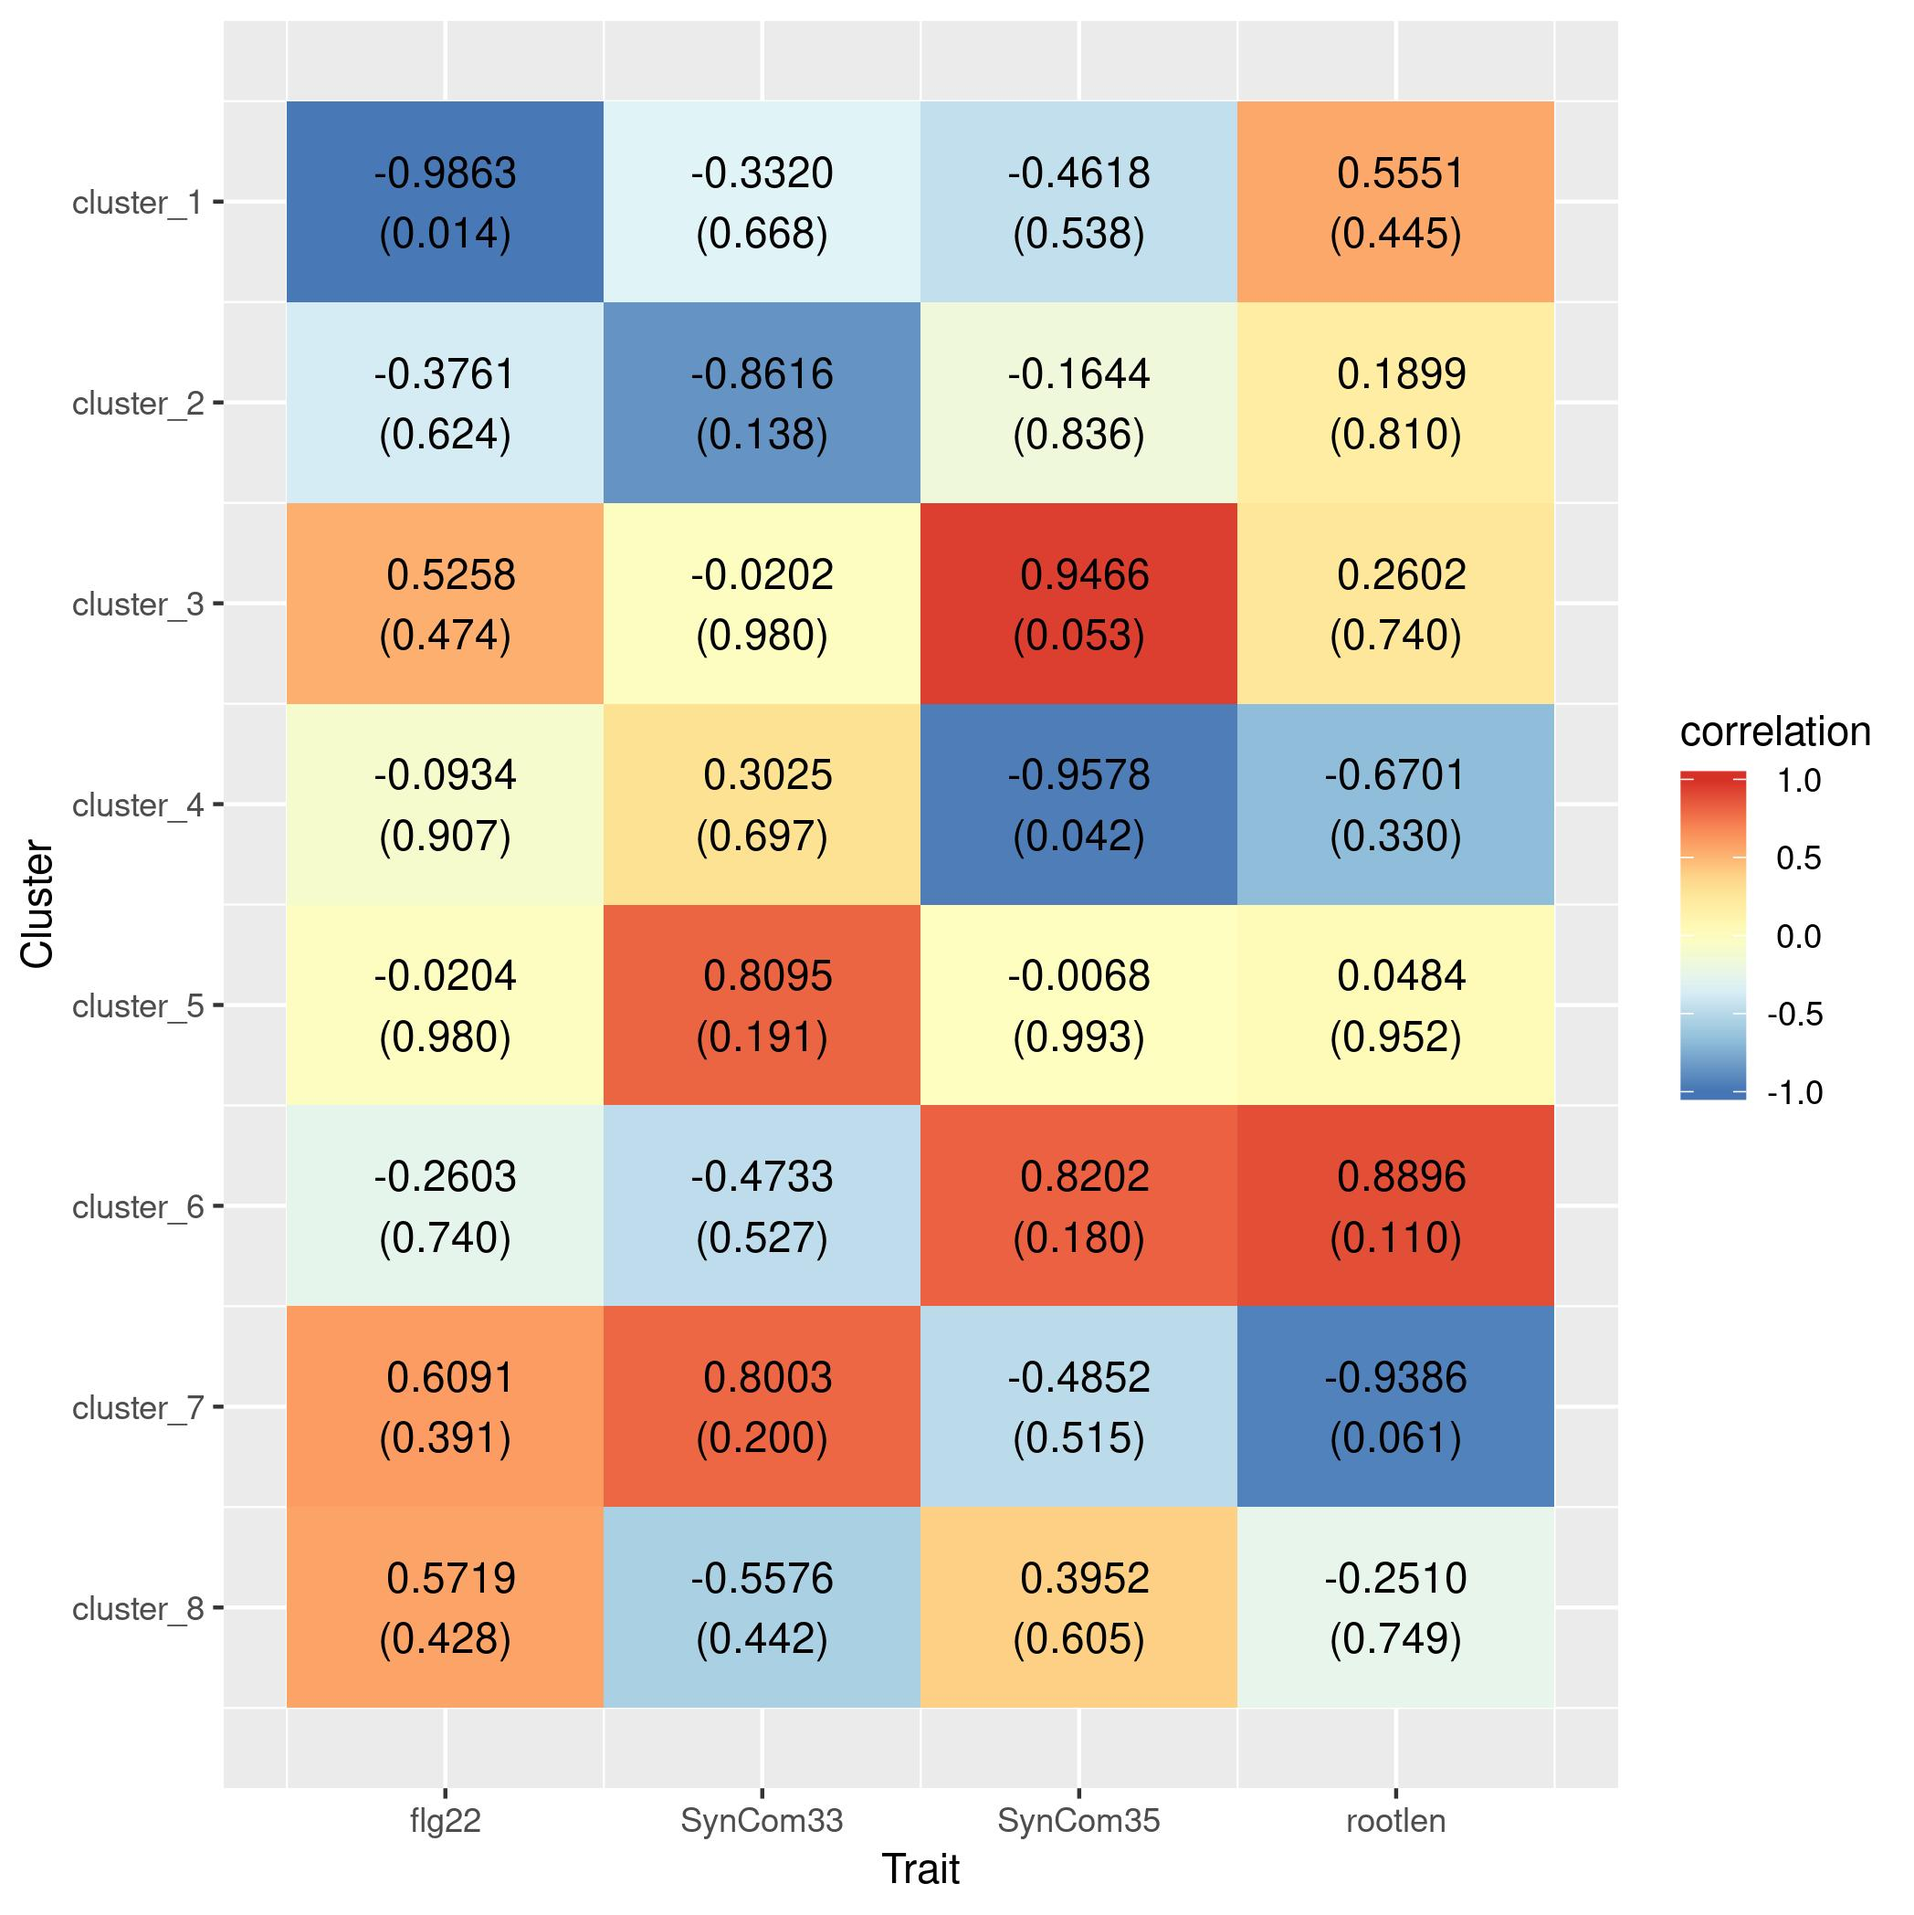
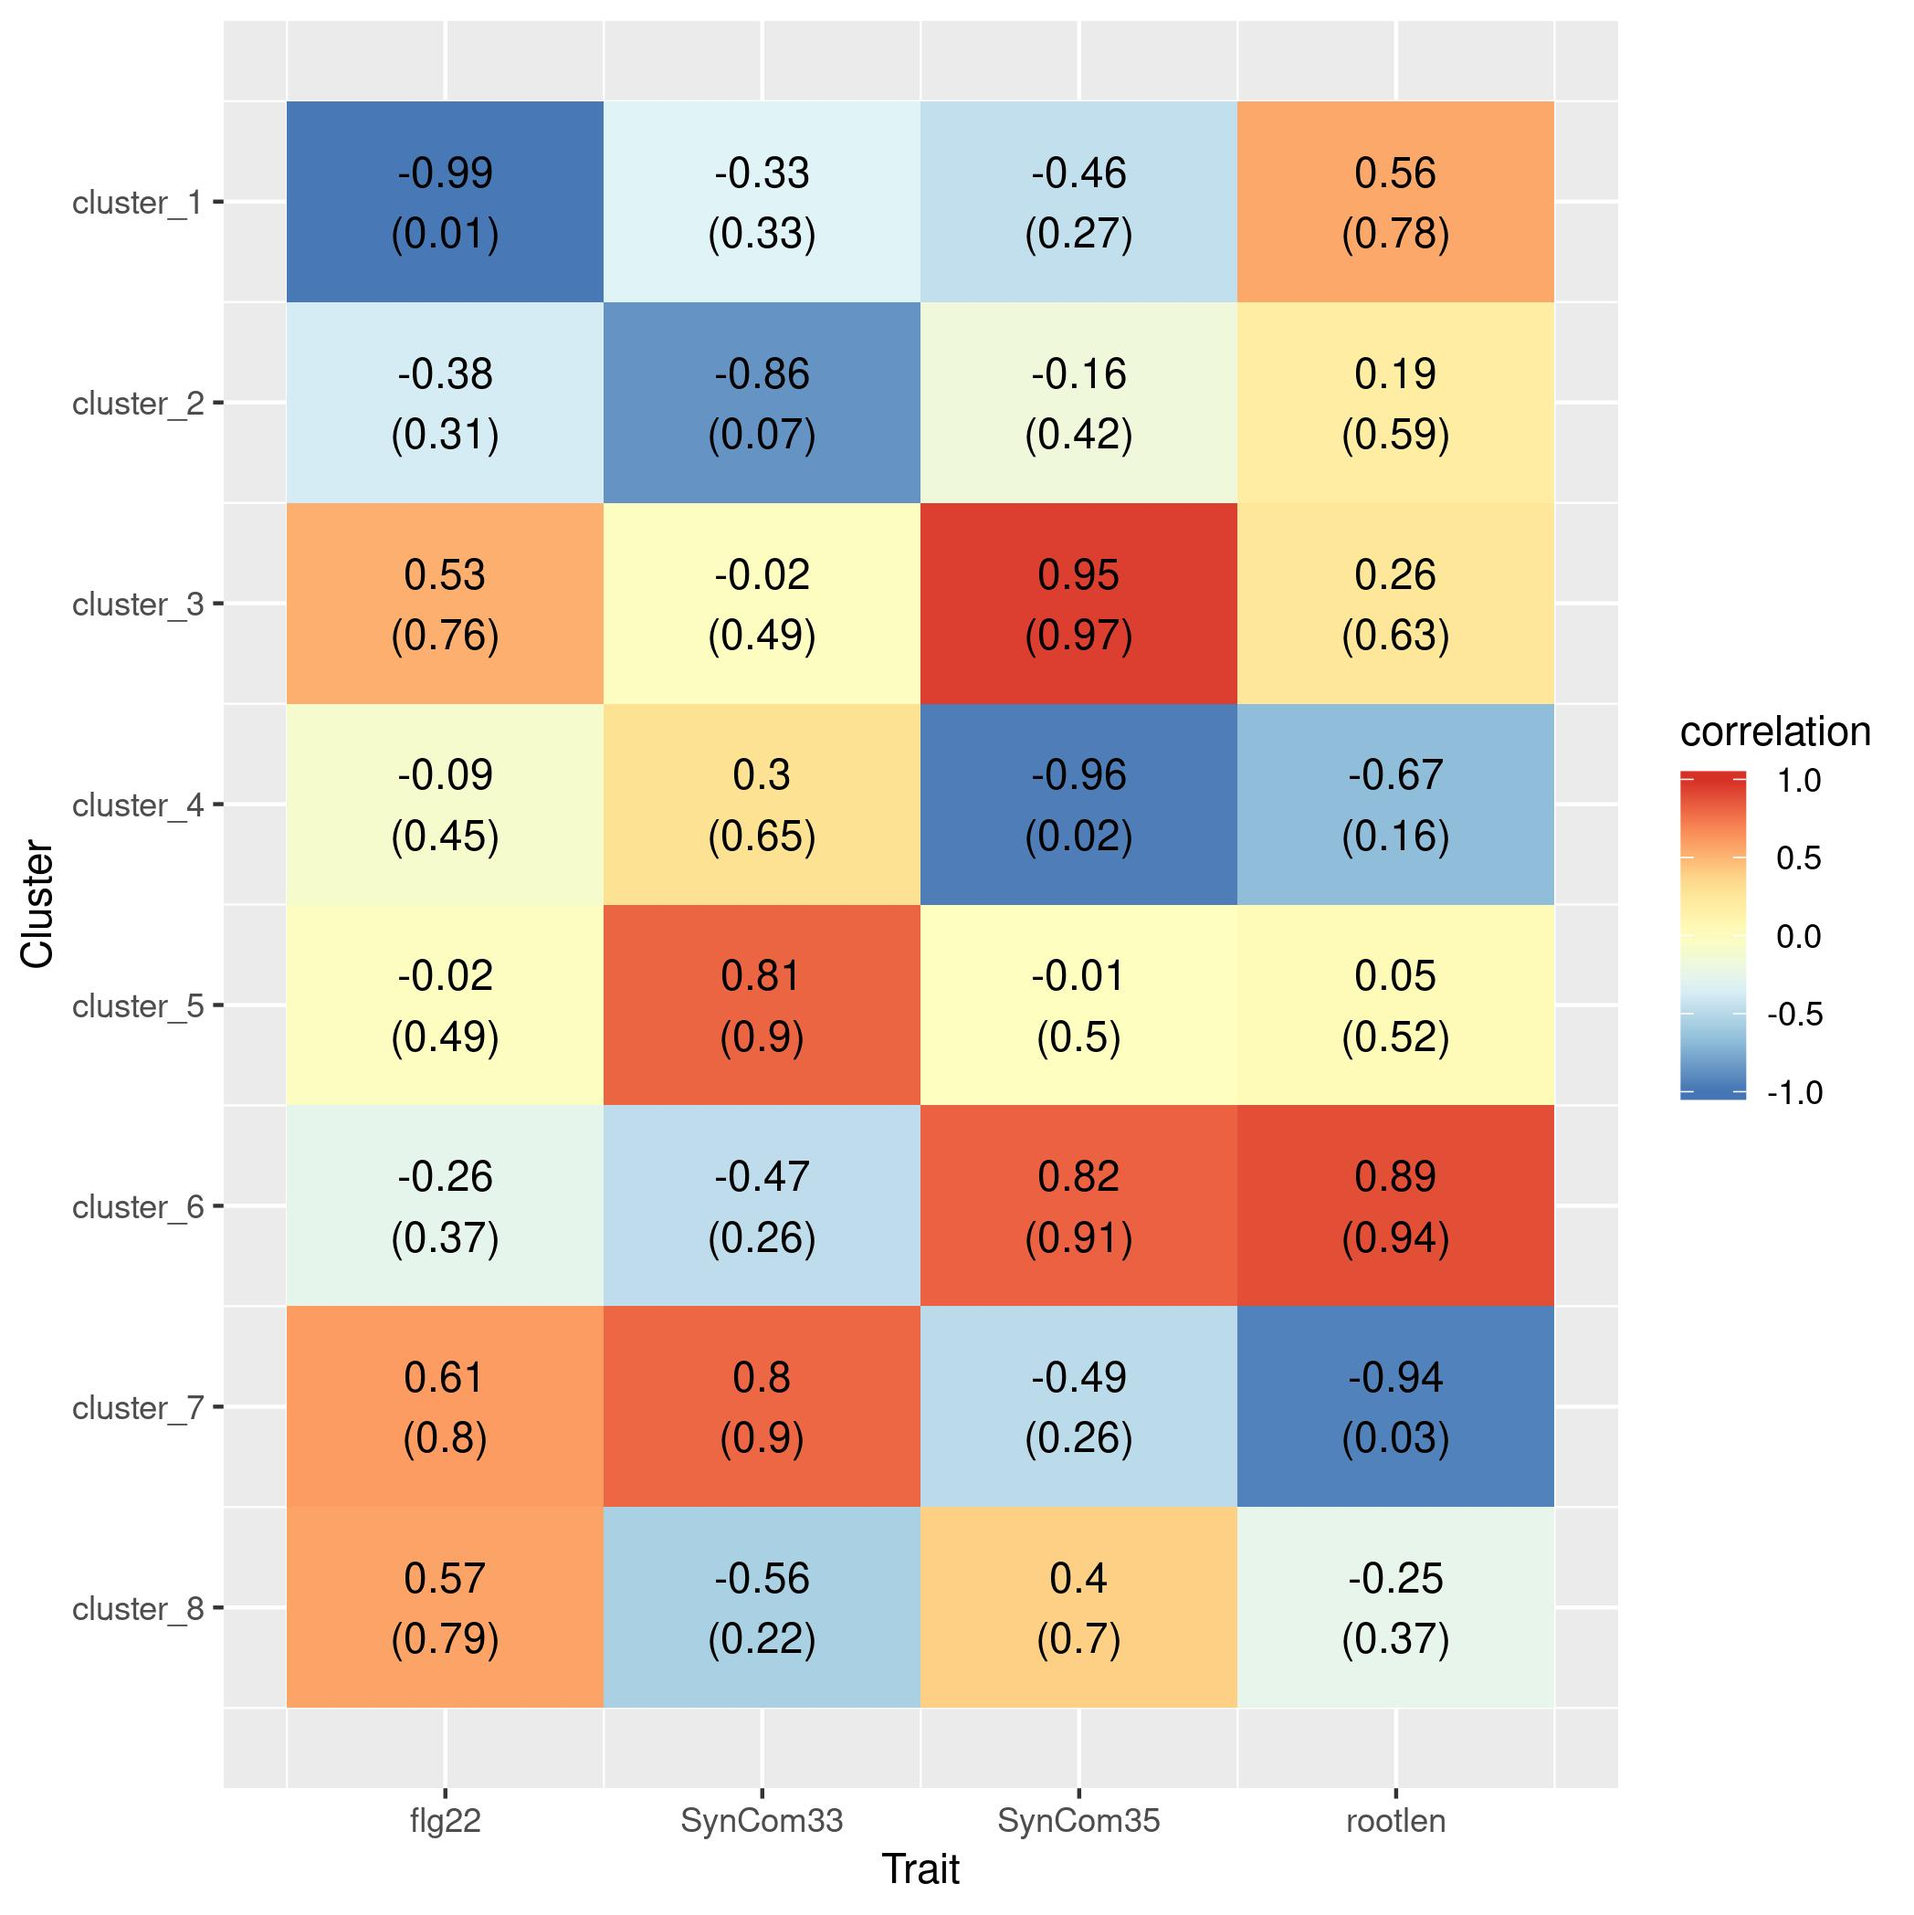
add p-value

diff --git a/KaWaiData.md b/KaWaiData.md
@@ -192,7 +192,7 @@ Distance was calculated as `1 - Pearson's Correlation Coefficient`
   
 ## 5 References ##
 
-* [Clustering RNAseq data, making heatmaps, and tree cutting to identify gene modules.](https://2-bitbio.com/2017/04/clustering-rnaseq-data-making-heatmaps.html)
+<!-- * [Clustering RNAseq data, making heatmaps, and tree cutting to identify gene modules.](https://2-bitbio.com/2017/04/clustering-rnaseq-data-making-heatmaps.html) -->
 
 
 
